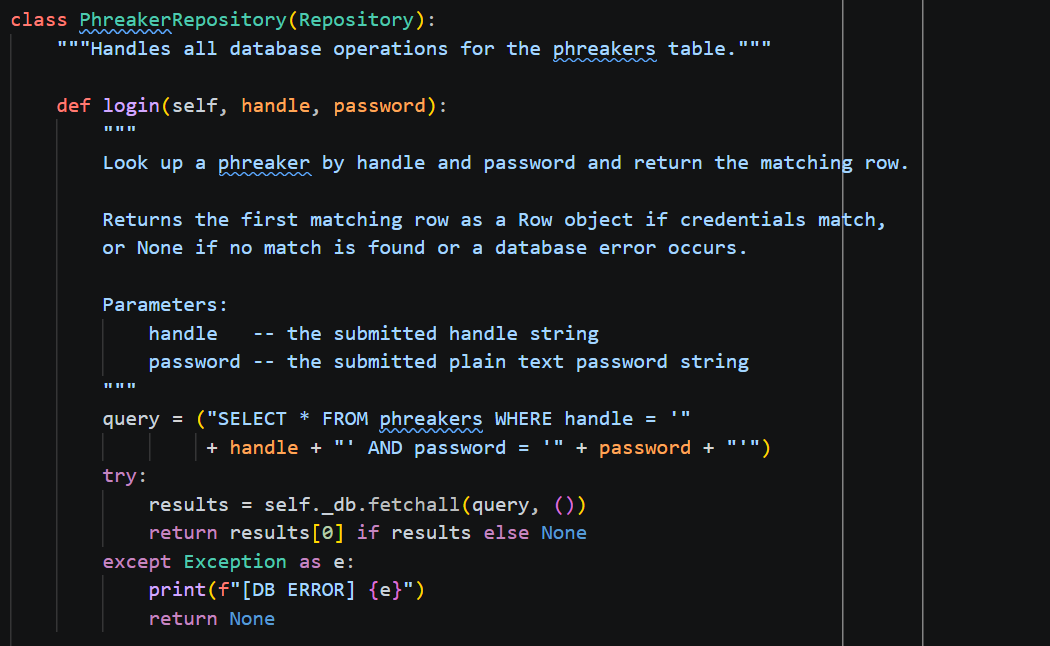
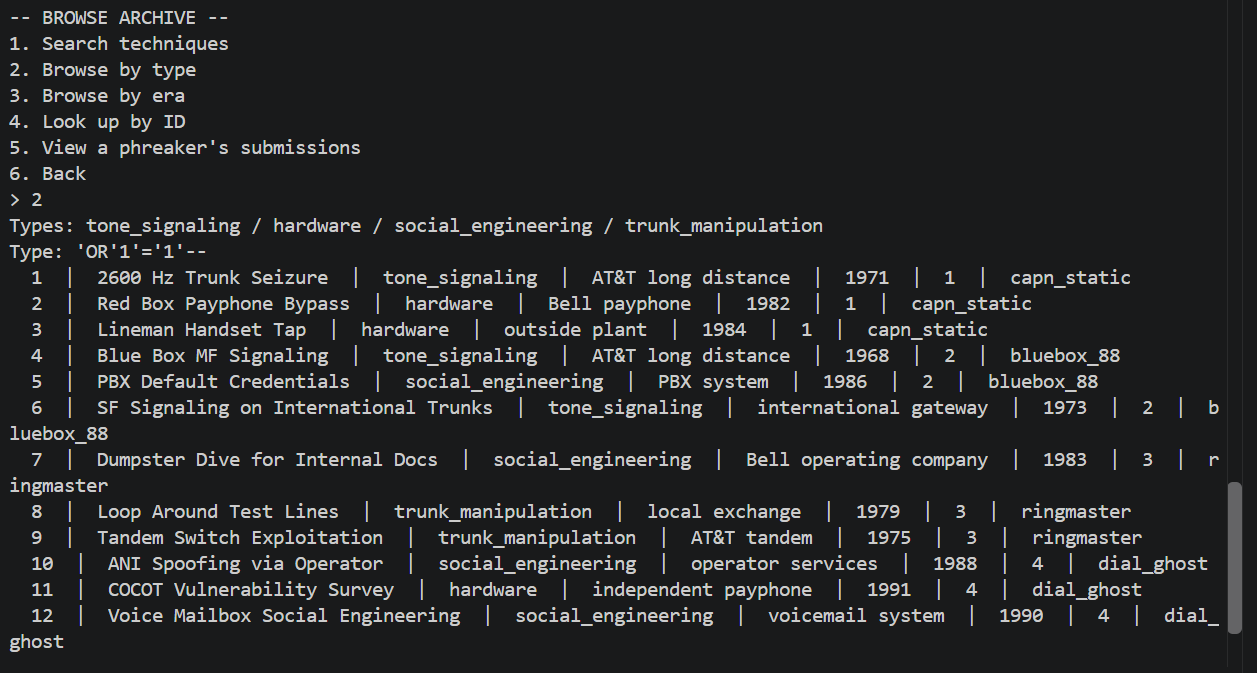
Fix: Found and fixed SQL insertion vulnerabilities in the browse by type search.

Changed region(s): [[0.0, 0.0, 1.0, 0.9907]]

diff --git a/app.py b/app.py
@@ -267,8 +267,8 @@ class TechniqueRepository(Repository):
         Parameters:
             technique_type -- the technique type string to filter by
         """
-        query = f"SELECT * FROM techniques WHERE technique_type = '{technique_type}'"
-        return self._db.fetchall(query, ())
+        query = "SELECT * FROM techniques WHERE technique_type = ?"
+        return self._db.fetchall(query, (technique_type,))
 
     def find_by_era(self, year):
         """
